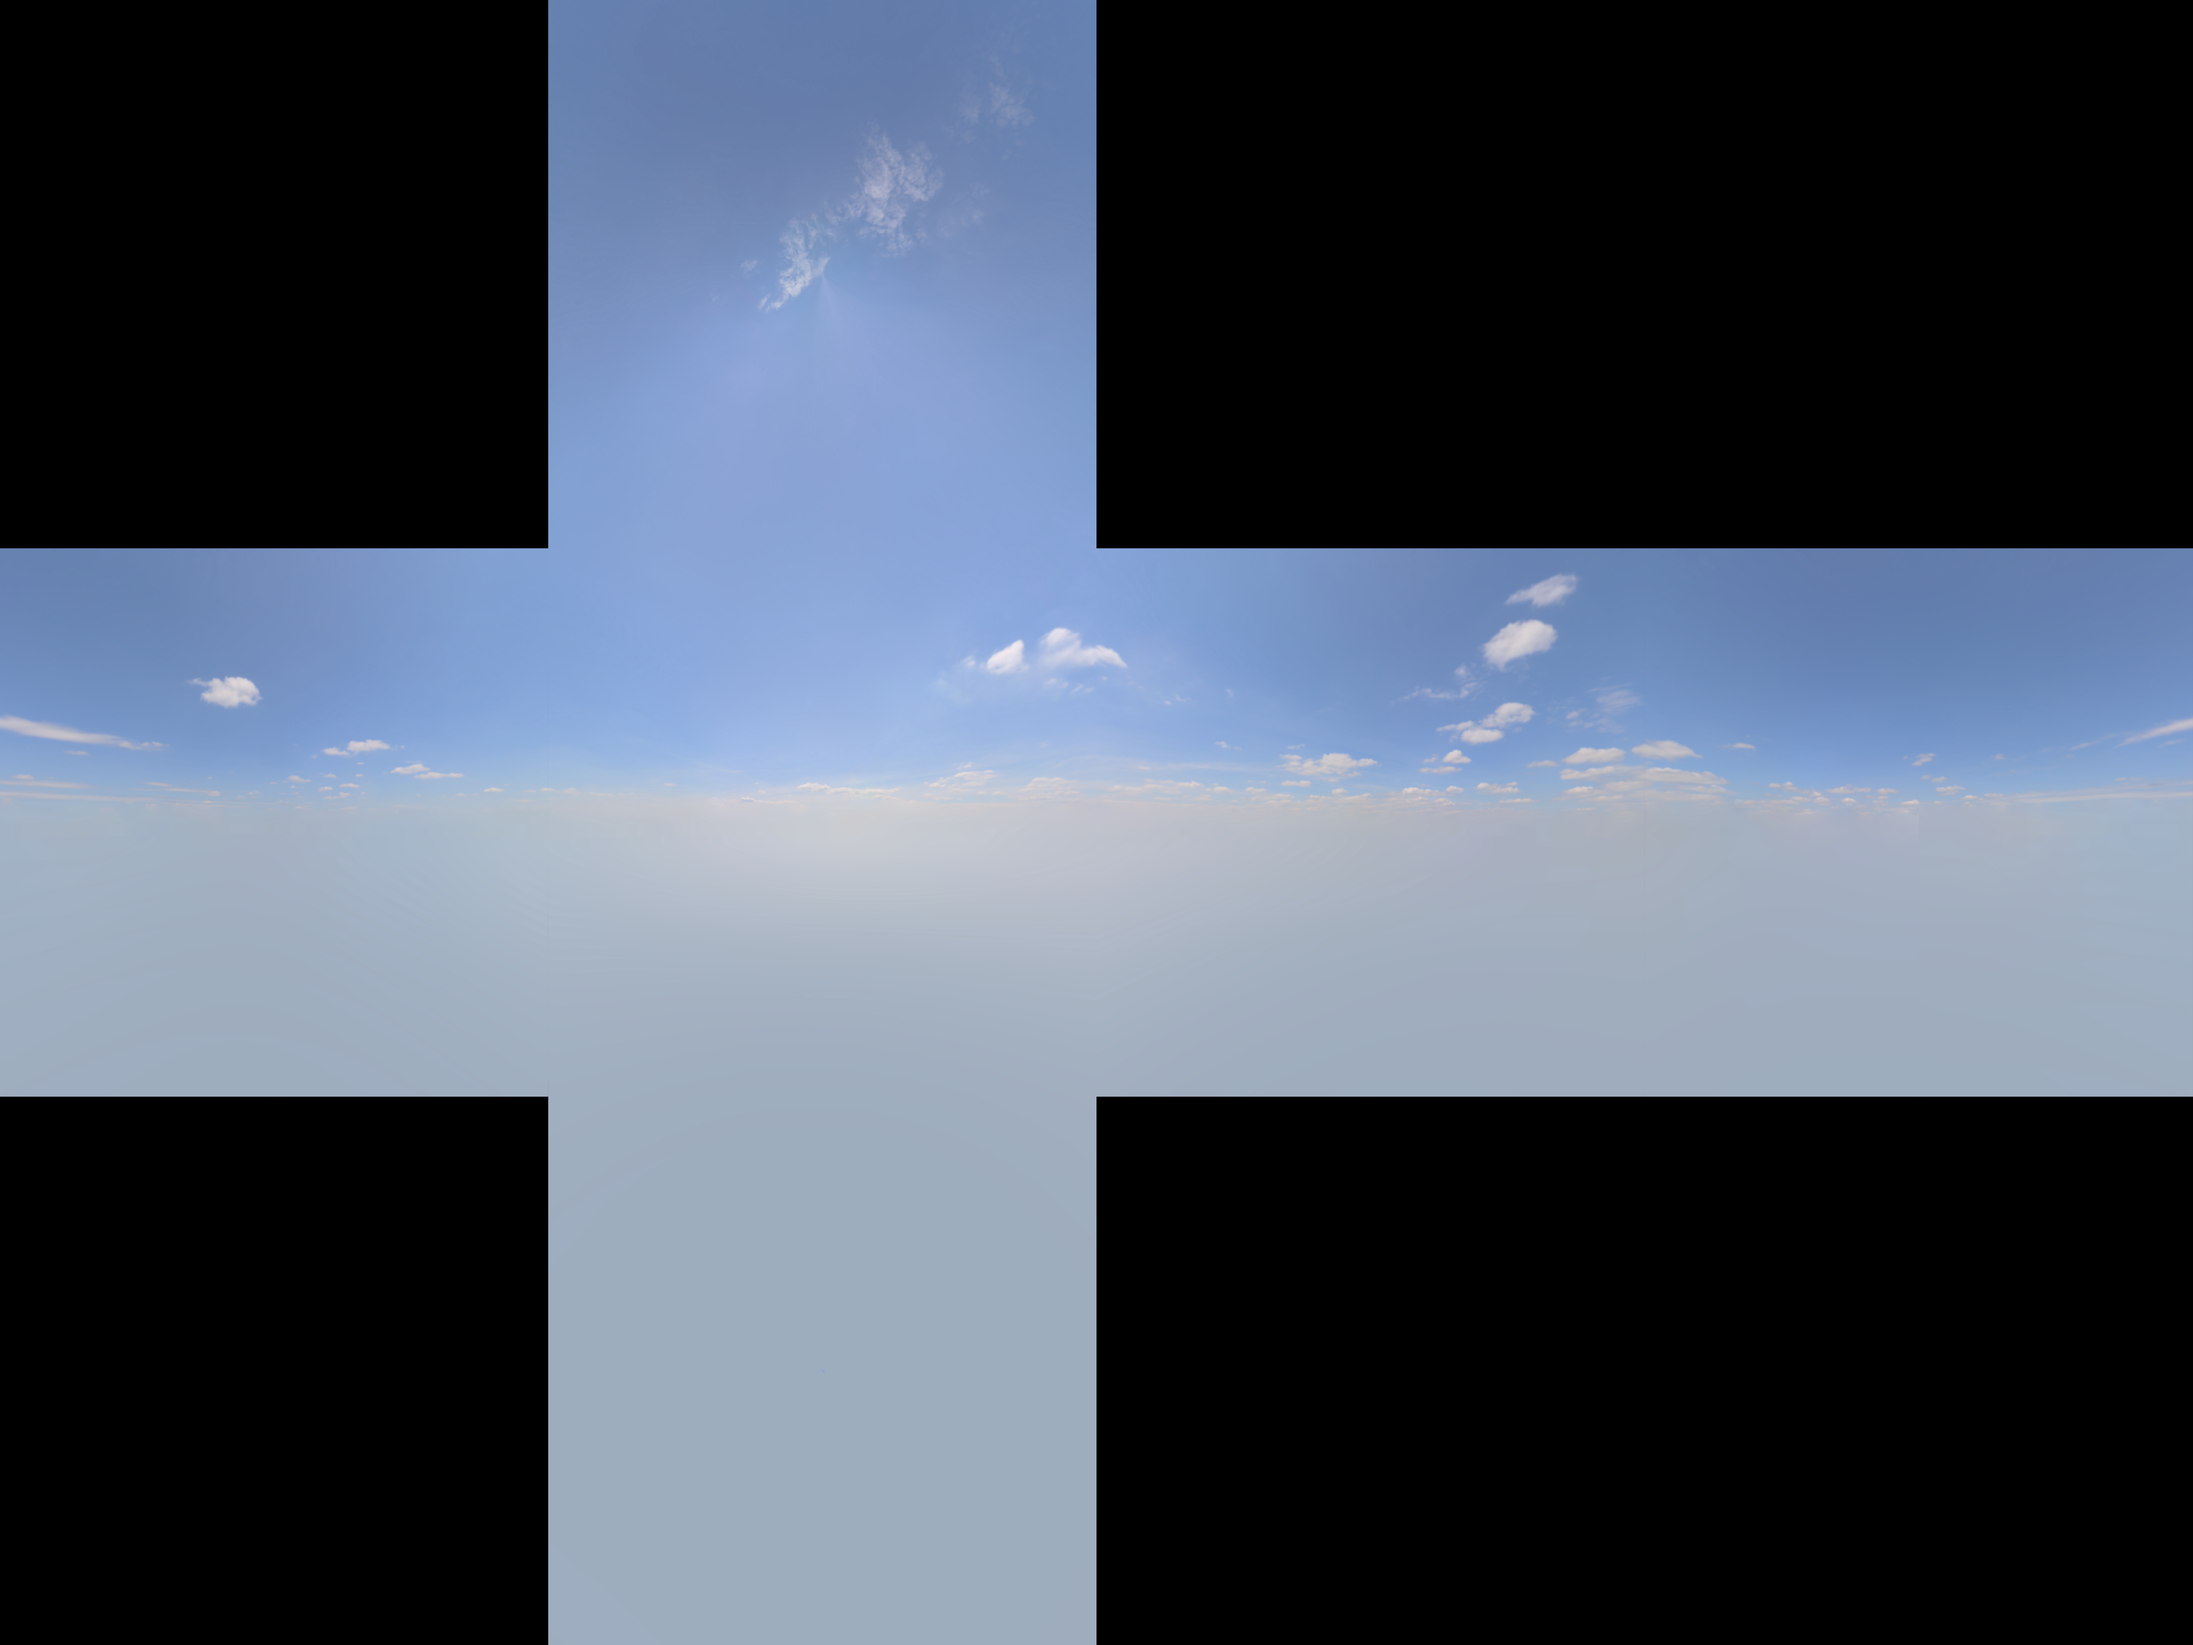
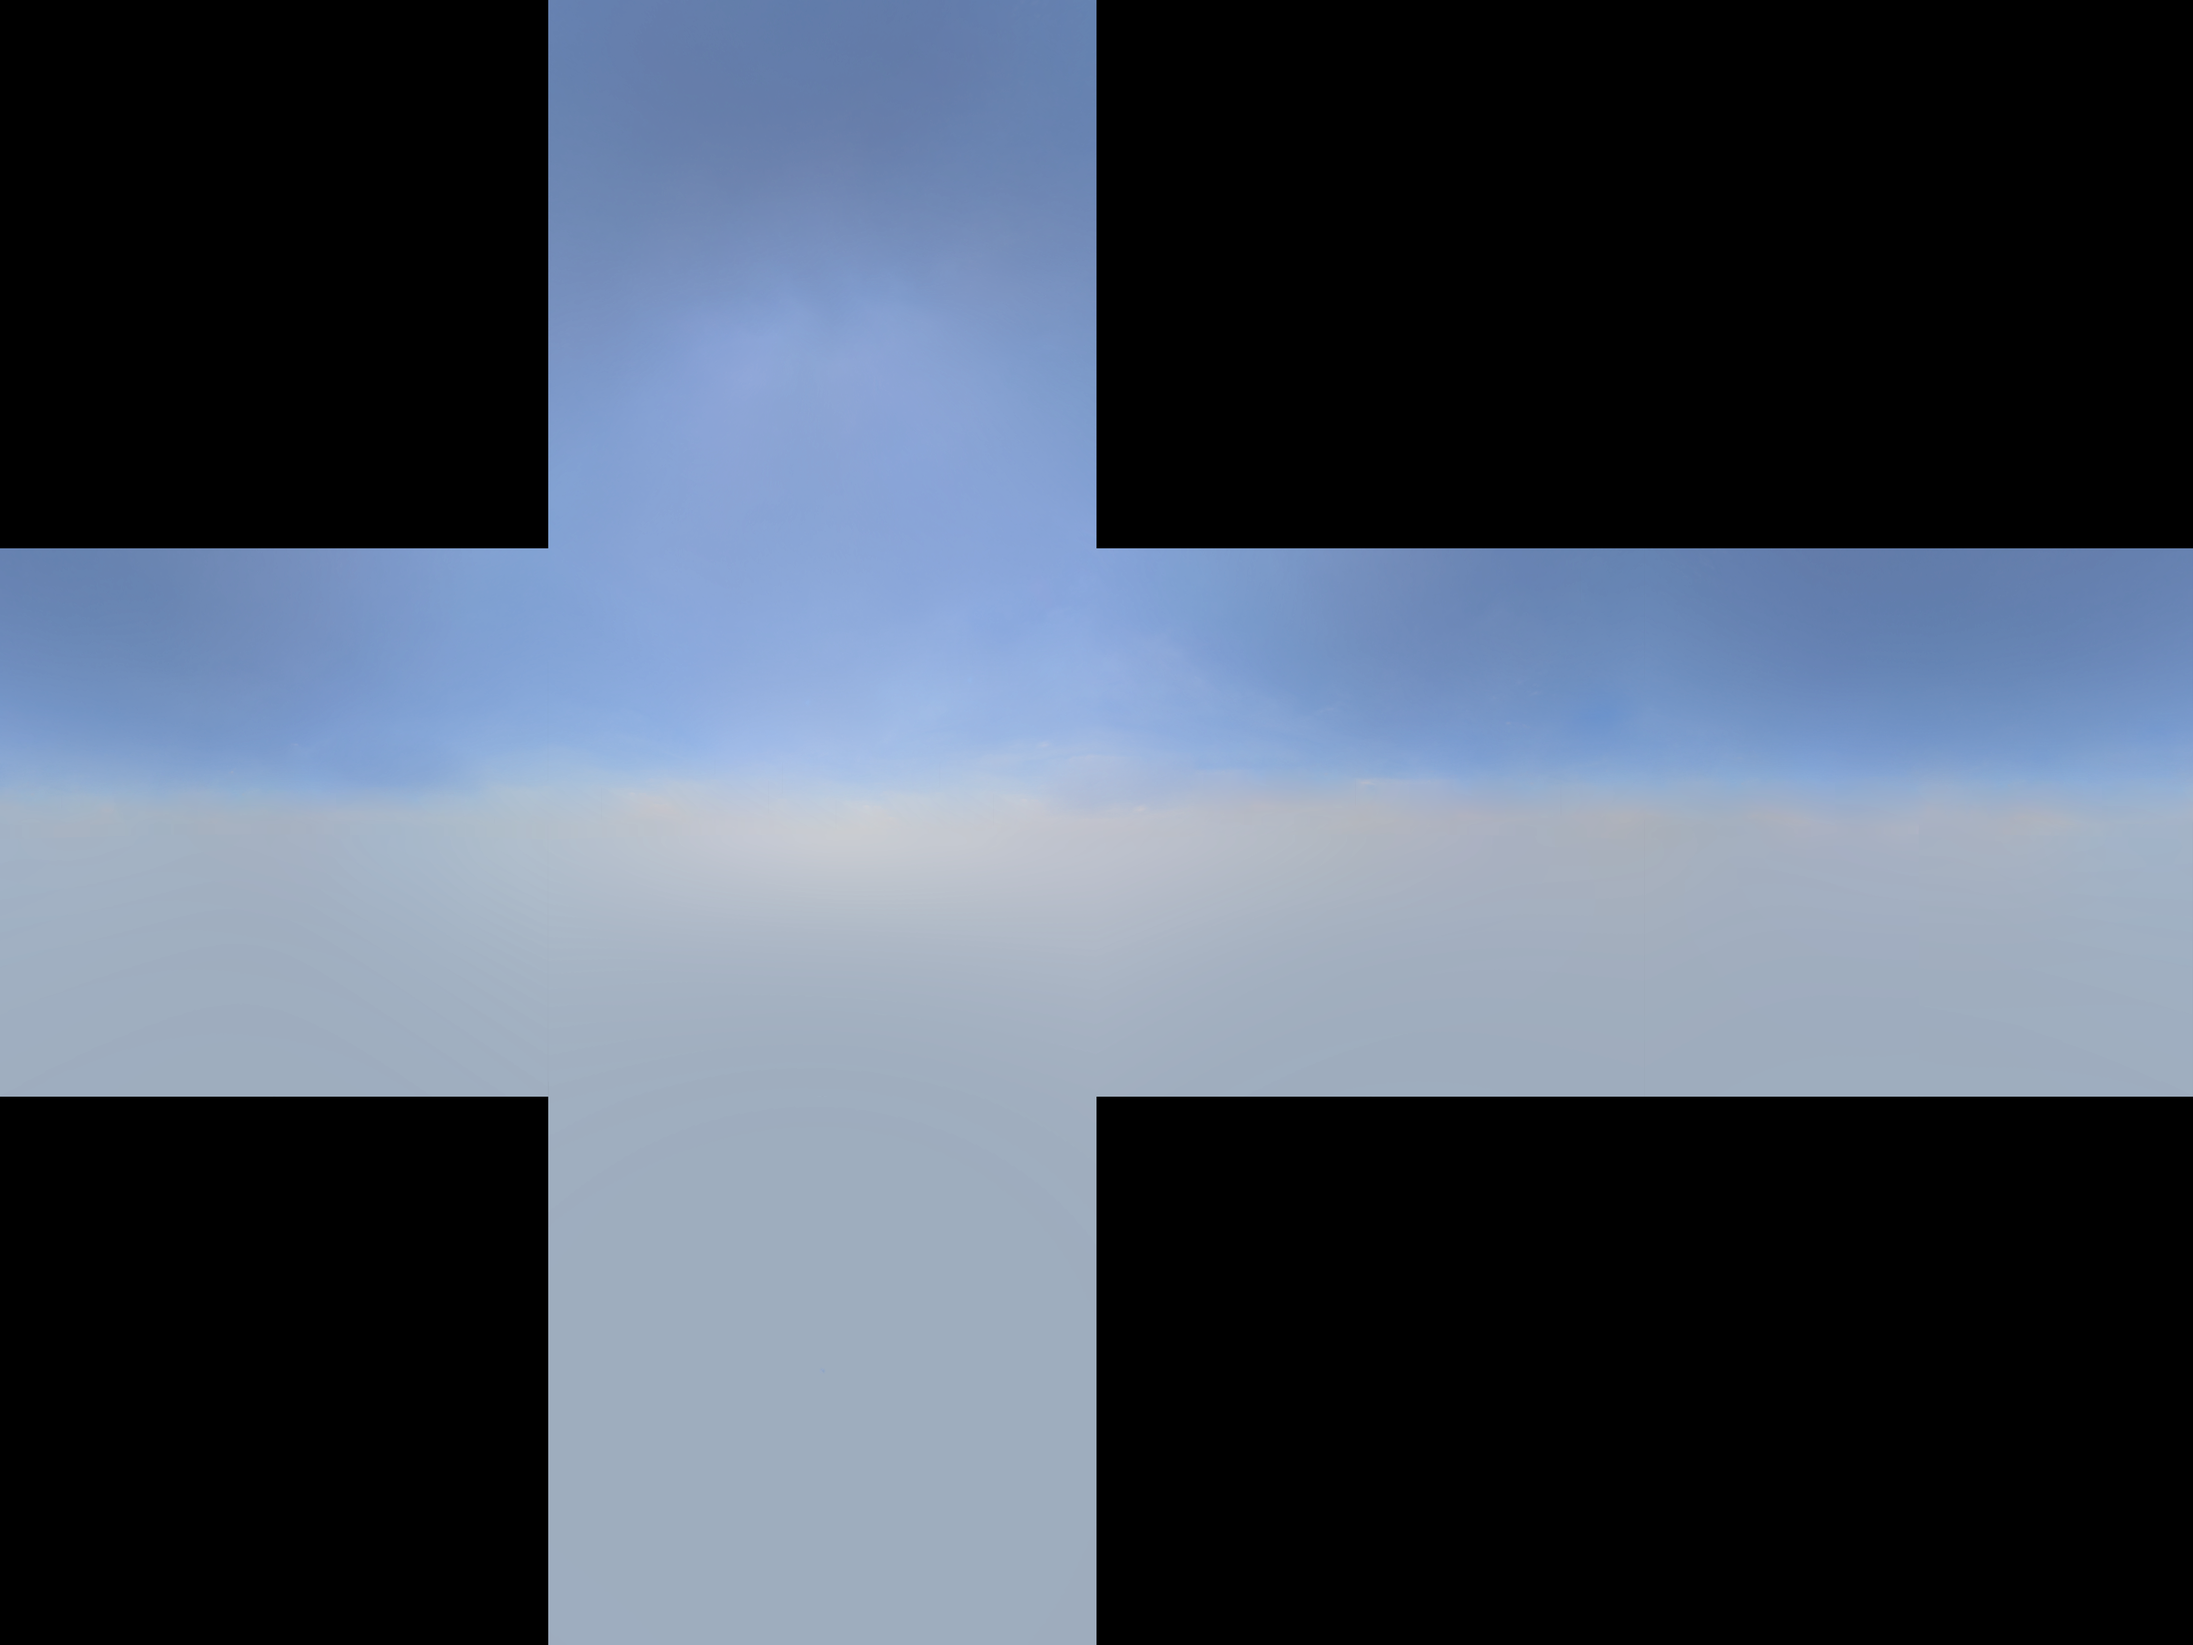
working at skybox and fog stuff

diff --git a/src/gameLayer/rendering/skyBoxRenderer.cpp b/src/gameLayer/rendering/skyBoxRenderer.cpp
@@ -68,6 +68,19 @@ static glm::mat4 captureViews[] =
 void SkyBoxLoaderAndDrawer::createGpuData()
 {
 
+
+	atmosphericScatteringShader.shader.loadShaderProgramFromFile(RESOURCES_PATH  "shaders/skyBox/hdrToCubeMap.vert",
+		RESOURCES_PATH  "shaders/skyBox/atmosphericScattering.frag");
+	atmosphericScatteringShader.u_lightPos = getUniform(atmosphericScatteringShader.shader.id, "u_lightPos");
+	atmosphericScatteringShader.u_color1 = getUniform(atmosphericScatteringShader.shader.id, "u_color1");
+	atmosphericScatteringShader.u_color2 = getUniform(atmosphericScatteringShader.shader.id, "u_color2");
+	atmosphericScatteringShader.u_groundColor = getUniform(atmosphericScatteringShader.shader.id, "u_groundColor");
+	atmosphericScatteringShader.u_g = getUniform(atmosphericScatteringShader.shader.id, "u_g");
+	atmosphericScatteringShader.u_useGround = getUniform(atmosphericScatteringShader.shader.id, "u_useGround");
+	atmosphericScatteringShader.u_viewProjection = getUniform(atmosphericScatteringShader.shader.id, "u_viewProjection");
+	atmosphericScatteringShader.u_noSun = getUniform(atmosphericScatteringShader.shader.id, "u_noSun");
+	
+
 	normalSkyBox.shader.loadShaderProgramFromFile(RESOURCES_PATH "shaders/skyBox/skyBox.vert", RESOURCES_PATH "shaders/skyBox/skyBox.frag");
 	normalSkyBox.modelViewUniformLocation = getUniform(normalSkyBox.shader.id, "u_viewProjection");
 	normalSkyBox.u_sunPos = getUniform(normalSkyBox.shader.id, "u_sunPos");
@@ -111,25 +124,118 @@ void SkyBoxLoaderAndDrawer::createGpuData()
 	glBindFramebuffer(GL_FRAMEBUFFER, captureFBO); //also allocate gpu resources
 	glBindFramebuffer(GL_FRAMEBUFFER, 0);
 
+	//render out the sky textures
+	//createSkyTextures();
+
+
+	glBindFramebuffer(GL_FRAMEBUFFER, 0);
+}
+
+void SkyBoxLoaderAndDrawer::createSkyTextures()
+{
+
+	daySky.clearTextures();
+	atmosphericScattering({0, -1, 0}, glm::vec3{9, 47, 116} / 255.f,
+		glm::vec3{33,38,44} / 255.f, {1,1,1}, false, 0.4, daySky, true);
+
+	twilightSky.clearTextures();
+	atmosphericScattering(glm::normalize(glm::vec3{0, 0.1, 1}), glm::vec3{22, 49, 111} / 255.f,
+		glm::vec3{35,22,36} / 255.f, {1,1,1}, false, 0.995, twilightSky, false);
+
+	nightSky.clearTextures();
+	atmosphericScattering({0, -1, 0}, glm::vec3{9, 15, 23} / 255.f * 0.5f,
+		glm::vec3{4,8,10} / 255.f * 0.5f, {1,1,1}, false, 0.850, nightSky, true);
+
+}
+
+void SkyBoxLoaderAndDrawer::atmosphericScattering(glm::vec3 sunPos,
+	glm::vec3 color1, glm::vec3 color2,
+	glm::vec3 groundColor, bool useGroundColor, float g,
+	SkyBox &skyBox, bool noSun)
+{
+	skyBox = {};
+	constexpr int skyBoxSize = 128;
+
+	//render into the cubemap
+	{
+		GLuint captureFBO;
+		glGenFramebuffers(1, &captureFBO);
+		glBindFramebuffer(GL_FRAMEBUFFER, captureFBO);
+
+		glGenTextures(1, &skyBox.texture);
+		glBindTexture(GL_TEXTURE_CUBE_MAP, skyBox.texture);
+		for (unsigned int i = 0; i < 6; ++i)
+		{
+			glTexImage2D(GL_TEXTURE_CUBE_MAP_POSITIVE_X + i, 0, GL_R11F_G11F_B10F,
+				skyBoxSize, skyBoxSize, 0, GL_RGB, GL_FLOAT, nullptr);
+		}
+		glTexParameteri(GL_TEXTURE_CUBE_MAP, GL_TEXTURE_WRAP_S, GL_CLAMP_TO_EDGE);
+		glTexParameteri(GL_TEXTURE_CUBE_MAP, GL_TEXTURE_WRAP_T, GL_CLAMP_TO_EDGE);
+		glTexParameteri(GL_TEXTURE_CUBE_MAP, GL_TEXTURE_WRAP_R, GL_CLAMP_TO_EDGE);
+		glTexParameteri(GL_TEXTURE_CUBE_MAP, GL_TEXTURE_MIN_FILTER, GL_LINEAR);
+		glTexParameteri(GL_TEXTURE_CUBE_MAP, GL_TEXTURE_MAG_FILTER, GL_LINEAR);
+
+		//rendering
+		{
+
+			atmosphericScatteringShader.shader.bind();
+			glUniform3fv(atmosphericScatteringShader.u_lightPos, 1, &sunPos[0]);
+			glUniform1f(atmosphericScatteringShader.u_g, g);
+			glUniform3fv(atmosphericScatteringShader.u_color1, 1, &color1[0]);
+			glUniform3fv(atmosphericScatteringShader.u_color2, 1, &color2[0]);
+			glUniform3fv(atmosphericScatteringShader.u_groundColor, 1, &groundColor[0]);
+			glUniform1i(atmosphericScatteringShader.u_useGround, (int)useGroundColor);
+			glUniform1i(atmosphericScatteringShader.u_noSun, (int)noSun);
+
+			glViewport(0, 0, skyBoxSize, skyBoxSize);
+
+			glBindFramebuffer(GL_FRAMEBUFFER, captureFBO);
+			glBindVertexArray(vertexArray);
+
+			for (unsigned int i = 0; i < 6; ++i)
+			{
+				glm::mat4 viewProjMat = captureProjection * captureViews[i];
+				glUniformMatrix4fv(atmosphericScatteringShader.u_viewProjection, 1, GL_FALSE, &viewProjMat[0][0]);
+				glFramebufferTexture2D(GL_FRAMEBUFFER, GL_COLOR_ATTACHMENT0,
+					GL_TEXTURE_CUBE_MAP_POSITIVE_X + i, skyBox.texture, 0);
+				glClear(GL_COLOR_BUFFER_BIT);
+
+				glDrawArrays(GL_TRIANGLES, 0, 6 * 6); // renders a 1x1 cube
+			}
+
+			glBindVertexArray(0);
+
+		}
+
+		glDeleteFramebuffers(1, &captureFBO);
+
+	}
+
+	createConvolutedAndPrefilteredTextureData(skyBox, 0.02, 64u);
+
 }
 
 
 void SkyBoxLoaderAndDrawer::loadAllTextures(std::string path)
 {
-	if (!daySky.texture)
-	{
-		loadTexture((path + "skybox.png").c_str(), daySky);
-	}
-	
-	if (!nightSky.texture)
-	{
-		loadTexture((path + "nightsky.png").c_str(), nightSky);
-	}
 
-	if (!twilightSky.texture)
-	{
-		loadTexture((path + "twilightsky.png").c_str(), twilightSky);
-	}
+	createSkyTextures();
+	//if (!daySky.texture)
+	//{
+	//	loadTexture((path + "skybox.png").c_str(), daySky);
+	//
+	//}
+
+	
+	//if (!nightSky.texture)
+	//{
+	//	loadTexture((path + "nightsky.png").c_str(), nightSky);
+	//}
+
+	//if (!twilightSky.texture)
+	//{
+	//	loadTexture((path + "twilightsky.png").c_str(), twilightSky);
+	//}
 
 	if (!sunTexture.id)
 	{
@@ -144,9 +250,9 @@ void SkyBoxLoaderAndDrawer::loadAllTextures(std::string path)
 
 void SkyBoxLoaderAndDrawer::clearOnlyTextures()
 {
-	daySky.clearTextures(); daySky = {};
-	nightSky.clearTextures(); nightSky = {};
-	twilightSky.clearTextures(); twilightSky = {};
+	//daySky.clearTextures(); daySky = {};
+	//nightSky.clearTextures(); nightSky = {};
+	//twilightSky.clearTextures(); twilightSky = {};
 	sunTexture.cleanup(); sunTexture = {};
 	moonTexture.cleanup(); moonTexture = {};
 }
@@ -664,6 +770,7 @@ void SkyBoxLoaderAndDrawer::drawBefore(const glm::mat4 &viewProjMat,
 
 void SkyBoxLoaderAndDrawer::clearOnlyGPUdata()
 {
+	atmosphericScatteringShader.shader.clear();
 	normalSkyBox.shader.clear();
 	hdrtoCubeMap.shader.clear();
 	convolute.shader.clear();

diff --git a/include/gameLayer/rendering/skyBoxRenderer.h b/include/gameLayer/rendering/skyBoxRenderer.h
@@ -23,6 +23,7 @@ struct SkyBoxLoaderAndDrawer
 
 	void createGpuData();
 
+
 	struct
 	{
 		Shader shader;
@@ -32,6 +33,19 @@ struct SkyBoxLoaderAndDrawer
 		GLuint u_rotation1;
 		GLuint u_rotation2;
 	}normalSkyBox;
+
+	struct
+	{
+		Shader shader;
+		GLuint u_lightPos;
+		GLuint u_color1;
+		GLuint u_color2;
+		GLuint u_groundColor;
+		GLuint u_g;
+		GLuint u_useGround;
+		GLuint u_viewProjection;
+		GLuint u_noSun;
+	}atmosphericScatteringShader;
 
 	struct
 	{
@@ -93,6 +107,12 @@ struct SkyBoxLoaderAndDrawer
 
 
 	void clearOnlyGPUdata();
+
+	void atmosphericScattering(glm::vec3 sunPos, glm::vec3 color1, glm::vec3 color2,
+		glm::vec3 groundColor, bool useGroundColor, float g,
+		SkyBox &skyBox, bool noSun);
+
+	void createSkyTextures();
 };
 
 

diff --git a/src/gameLayer/gameplay/battleUI.cpp b/src/gameLayer/gameplay/battleUI.cpp
@@ -18,11 +18,11 @@ HitResult BattleUI::update(Item &item, int inventorySlot, bool dontRun,
 	static float debugSpeed = 1;
 	static float debugDexterity = 0;
 	static float debugCombo = 0;
-	ImGui::Begin("Test speed");
-	ImGui::SliderFloat("Speed: ", &debugSpeed, -10, 20);
-	ImGui::SliderFloat("Dexterity: ", &debugDexterity, -10, 20);
-	ImGui::SliderFloat("Combo Frequency: ", &debugCombo, -10, 20);
-	ImGui::End();
+	//ImGui::Begin("Test speed");
+	//ImGui::SliderFloat("Speed: ", &debugSpeed, -10, 20);
+	//ImGui::SliderFloat("Dexterity: ", &debugDexterity, -10, 20);
+	//ImGui::SliderFloat("Combo Frequency: ", &debugCombo, -10, 20);
+	//ImGui::End();
 
 	HitResult result;
 

diff --git a/src/gameLayer/gamePlayLogic.cpp b/src/gameLayer/gamePlayLogic.cpp
@@ -555,6 +555,7 @@ bool gameplayFrame(float deltaTime, int w, int h, ProgramData &programData)
 			programData.renderer.reloadShaders();
 			programData.skyBoxLoaderAndDrawer.clearOnlyGPUdata();
 			programData.skyBoxLoaderAndDrawer.createGpuData();
+			programData.skyBoxLoaderAndDrawer.createSkyTextures();
 
 			programData.sunRenderer.clear();
 			programData.sunRenderer.create();
